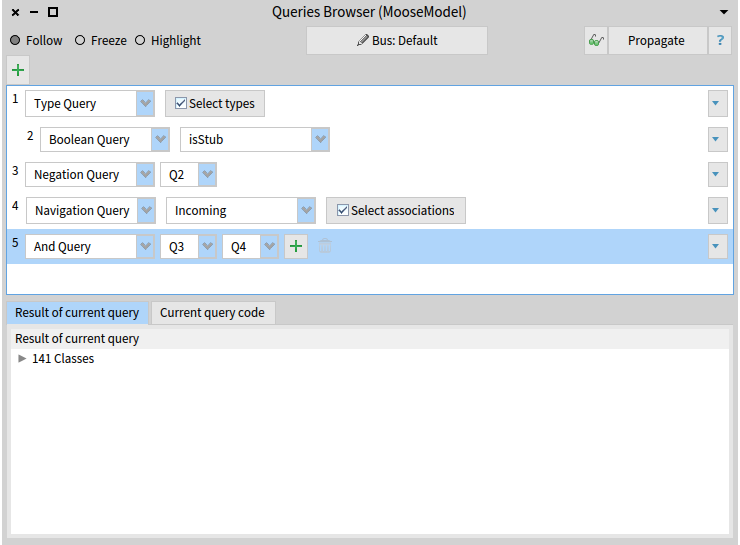
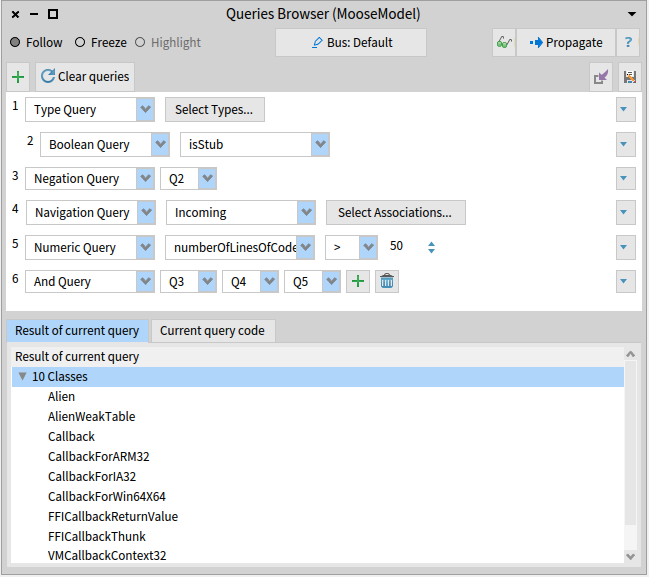
new version of the post

diff --git a/_drafts/2021-07-27-the-new-queries-browser.md b/_drafts/2021-07-27-the-new-queries-browser.md
@@ -3,14 +3,14 @@ layout: post
 title: "Introducing the new Queries Browser"
 header-img: img/posts/DSM.jpg
 subtitle: >-
-  Here I am going to show you the brand new queries browser!
+  Here I am going to show you the new Queries Browser!
 background: '/img/posts/bg-posts.jpg'
-date: 2021-07-27 13:45:00
+date: 2021-10-10 11:00:00
 author: Sebastian Jordan
 comments: true
 ---
 
-## What is a Famix query?
+## What is a Famix Query?
 Let's say that you want to know which classes of your Moose model are stub. That means: which classes are not defined in your Moose model but are used by some of your defined classes. Those classes are part of your model although they are not part of your code.
 Checking those stub classes is easy. You only have to create a Boolean query (assuming that your model contains only classes) with the property `isStub`. Like:
 
@@ -18,12 +18,12 @@ Checking those stub classes is easy. You only have to create a Boolean query (as
 FQBooleanQuery property: #isStub
 ```
 
-But, creating queries programmatically can be a tedious task. Of course, not all the queries that you want to create are not so frivolous as the one in the example. With queries with lots of children, the code is not easy to understand at first sight.
+But, creating queries programmatically can be a tedious task. Of course, not all the queries that you want to create are so frivolous as the one in the example. With queries with lots of children, the code is not easy to understand at first sight.
 
 ## Queries browser
-The new Queries Browser was developed to create queries in a more visually way. This is a Moose tool that allows you to create and manipulate queries without the need of knowing the FamixQueries syntax or how to instantiate them. It has a nice and intuitive user interface.
+The new Queries Browser was developed to create queries in a visual way. This is a Moose tool that allows you to create and manipulate queries without the need of knowing the FamixQueries syntax or how to instantiate them. It has a nice user interface.
 
-!["The brand new Queries Browser"](/img/posts/2021-07-27-the-new-queries-browser/and-query.png){: .img-fill }
+!["The brand new Queries Browser"](/img/posts/2021-07-27-the-new-queries-browser/new-queries-browser.png){: .img-fill }
 
 If you want to know:
 1. What are all the classes that are not stub.
@@ -31,7 +31,7 @@ If you want to know:
 3. What are the entities that have more than 50 lines of code.
 4. Finally, what is the intersection of those three queries.
 
-This is an easy task for the Queries Browser. First, we need to create a type query that filters all the entities except the classes. For do that, we select Type Query in the queries browser and then unselect all the types except the classes.
+This is an easy task for the Queries Browser. First, we need to create a type query that filters all the entities except the classes. For do that, we select Type Query in the queries browser and then select only the classes.
 
 !["Type Query"](/img/posts/2021-07-27-the-new-queries-browser/type-query.png){: .img-fill }
 
@@ -60,7 +60,9 @@ For the final task we need to create an And Query, a.k.a Intersection Query, cli
 If we wanted to the the above queries programmatically, the code would have look like this:
 
 ```st
-(FQComplementQuery new beChildOf: (FQBooleanQuery property: #isStub))
+(FQComplementQuery queryToNegate:
+	 (FQTypeQuery types: { FamixStClass })
+	 --> (FQBooleanQuery property: #isStub))
 & (FQNavigationQuery incoming associations: {
 		 FamixStReference.
 		 FamixStInheritance }) & (FQNumericQuery
@@ -72,7 +74,18 @@ If we wanted to the the above queries programmatically, the code would have look
 The code is also shown in the "Current query code tab":
 !["The brand new Queries Browser"](/img/posts/2021-07-27-the-new-queries-browser/current-code.png){: .img-fill }
 
+## Saving and loading the queries
+
+As you may already noticed, there are two button for saving and loading the queries. The save button saves all queries that are currently present on the queries browser as a STON file. The queries will be saved inside a folder in the same location as the image. The path is determinated in `MiSaveQueriesCommand class>>#path`.
+
+When loading the queries, the saved queries will be put after the queries that are present in the browser, if any. For example, if we save the queries that we have created above.
+
+!["Save queries as"](/img/posts/2021-07-27-the-new-queries-browser/save-queries.png){: .img-fill }
+
+Then, with an empty browser, we create a new query and then loading the file we get:
+
+!["Load queries"](/img/posts/2021-07-27-the-new-queries-browser/load-queries.png){: .img-fill }
 
 ## Conclusion
 
-The new Queries Browser can simplify the way that the Famix Queries are created and make it more visual and understandable. Even that the example in this post is not complex it made easier our tasks. Analyzing models with real-life examples can lead to very nested queries. Create those queries programmatically can be very tedious and error-prone. The Queries Browser is here to help us in those cases. :smile:
+The new Queries Browser can simplify the way that the Famix Queries are created and make it more visual and understandable. Even though that the example in this post is not complex, the Queries Browser made easier our tasks. Analyzing models with real-life examples can lead to very nested queries. Create those queries programmatically can be very tedious and error-prone. The Queries Browser is here to help us in those cases. :smile:
